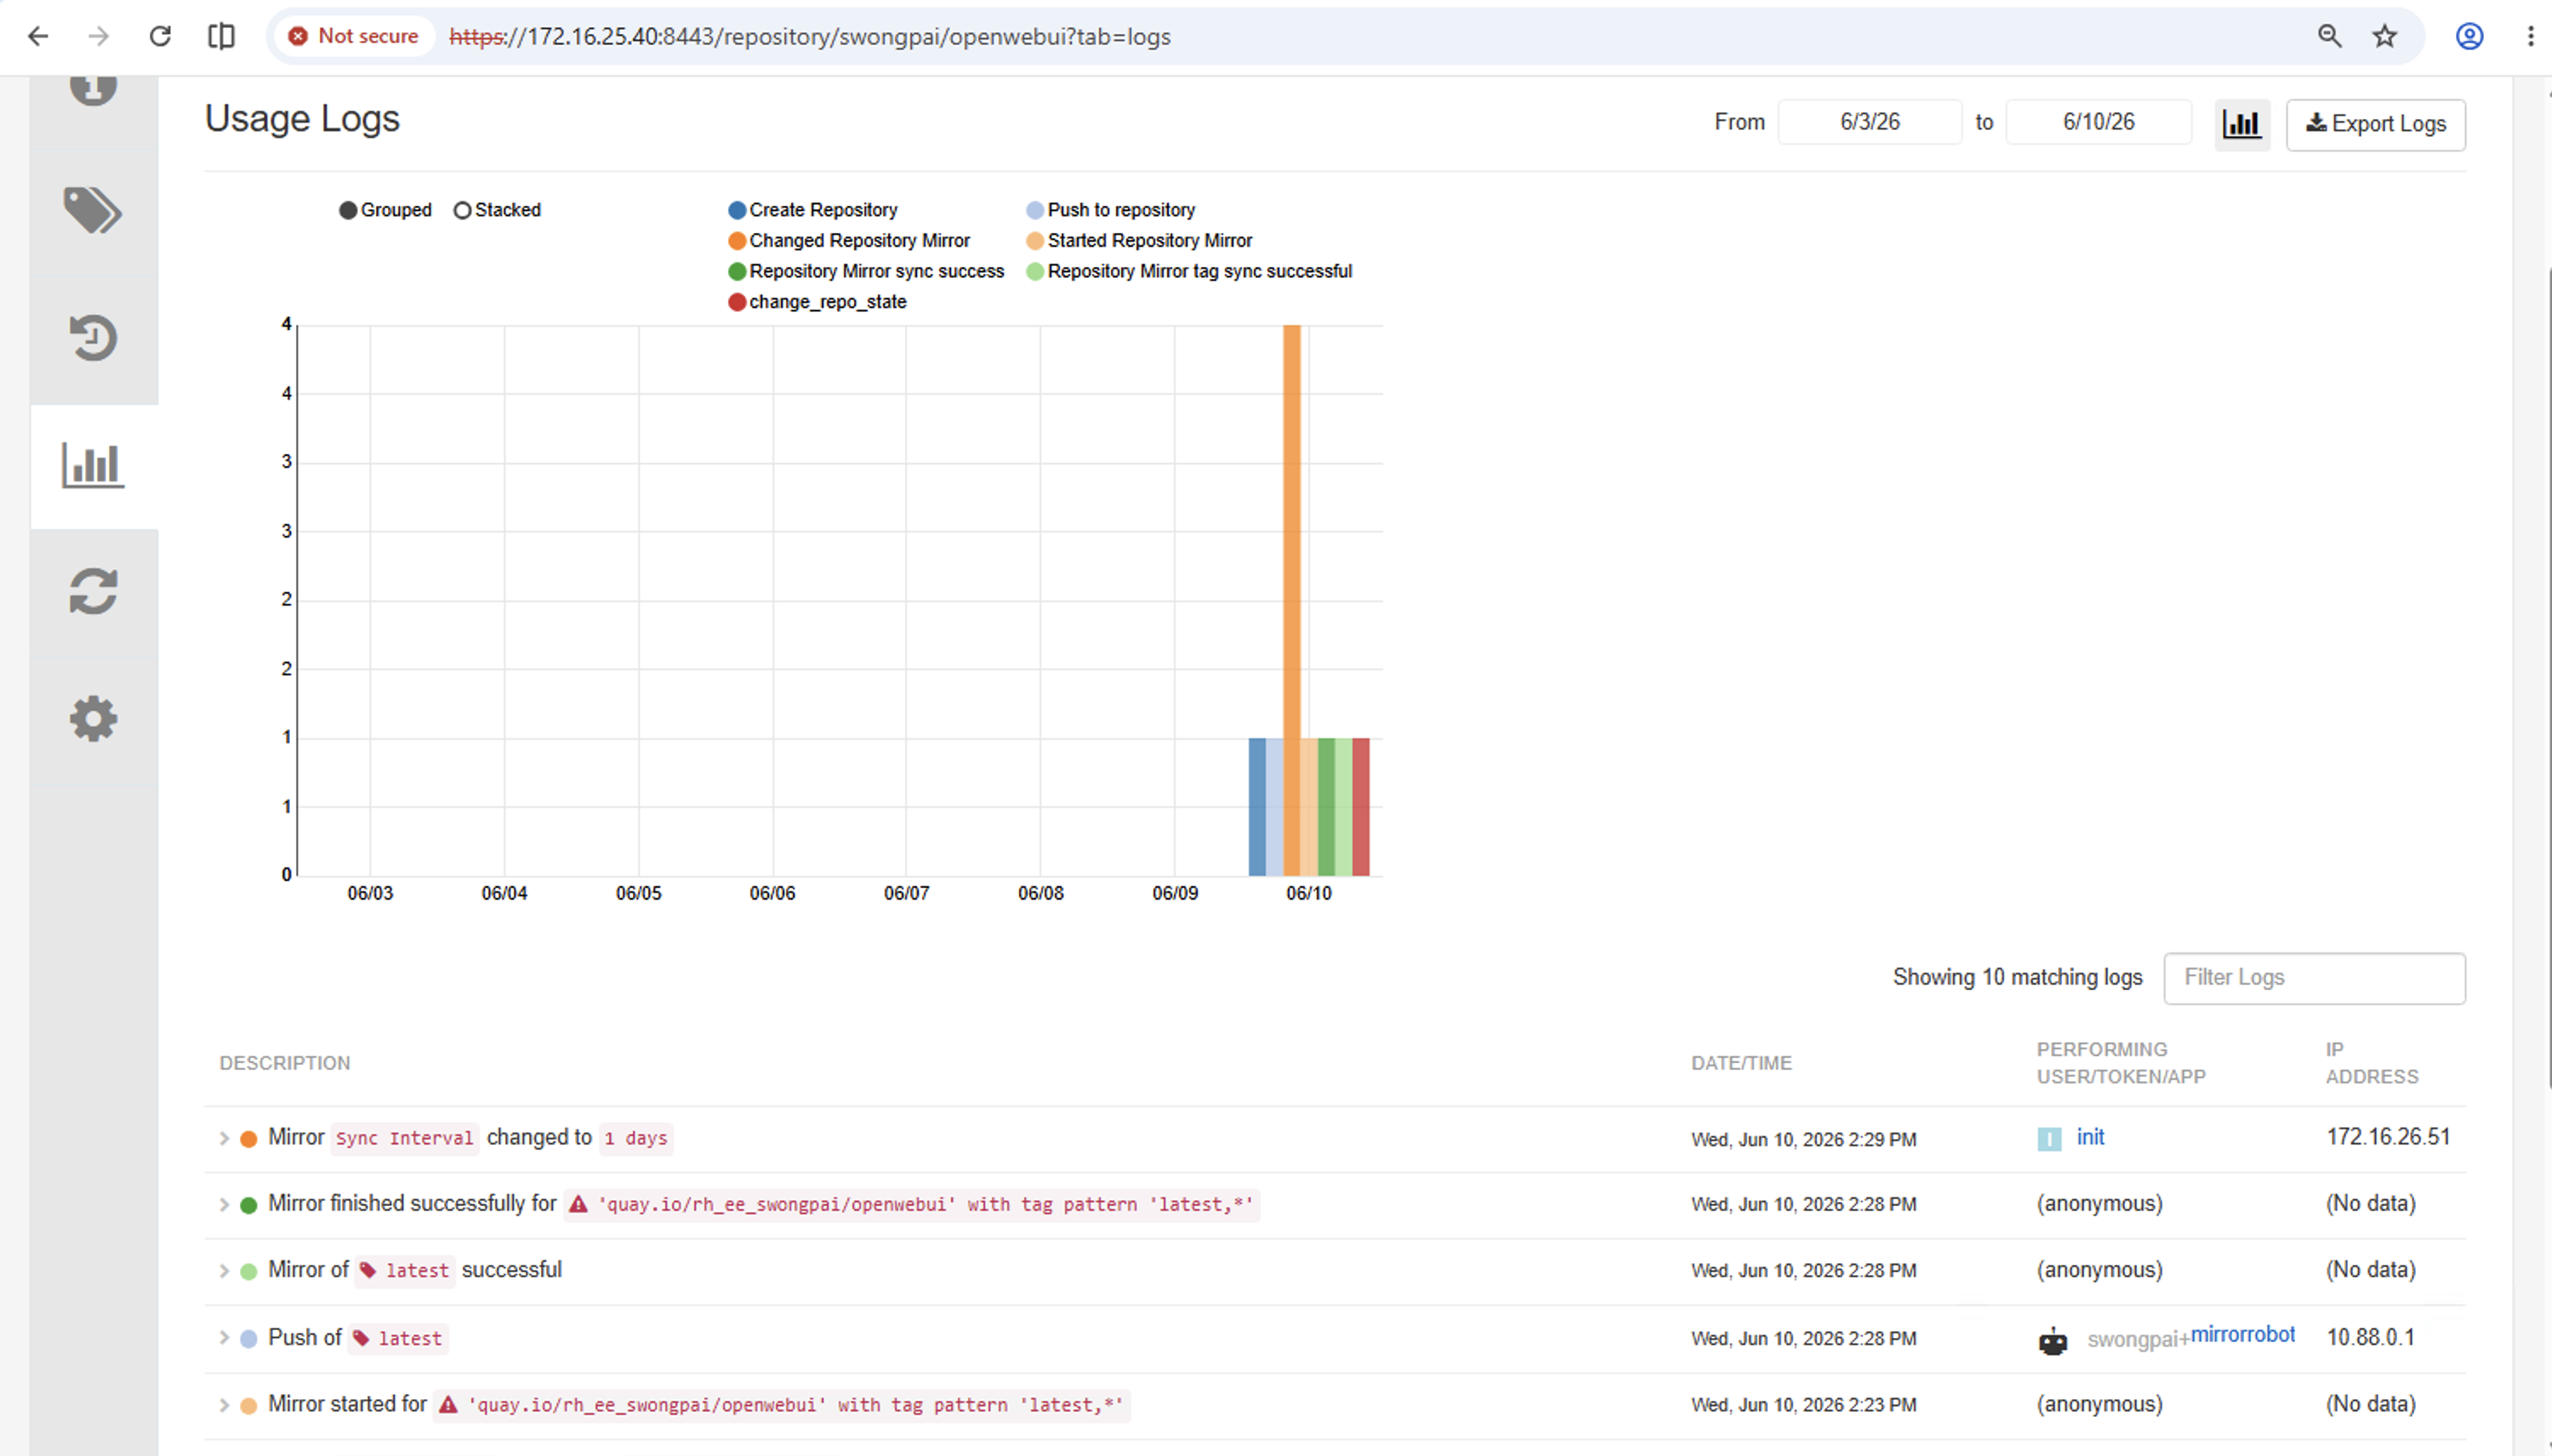
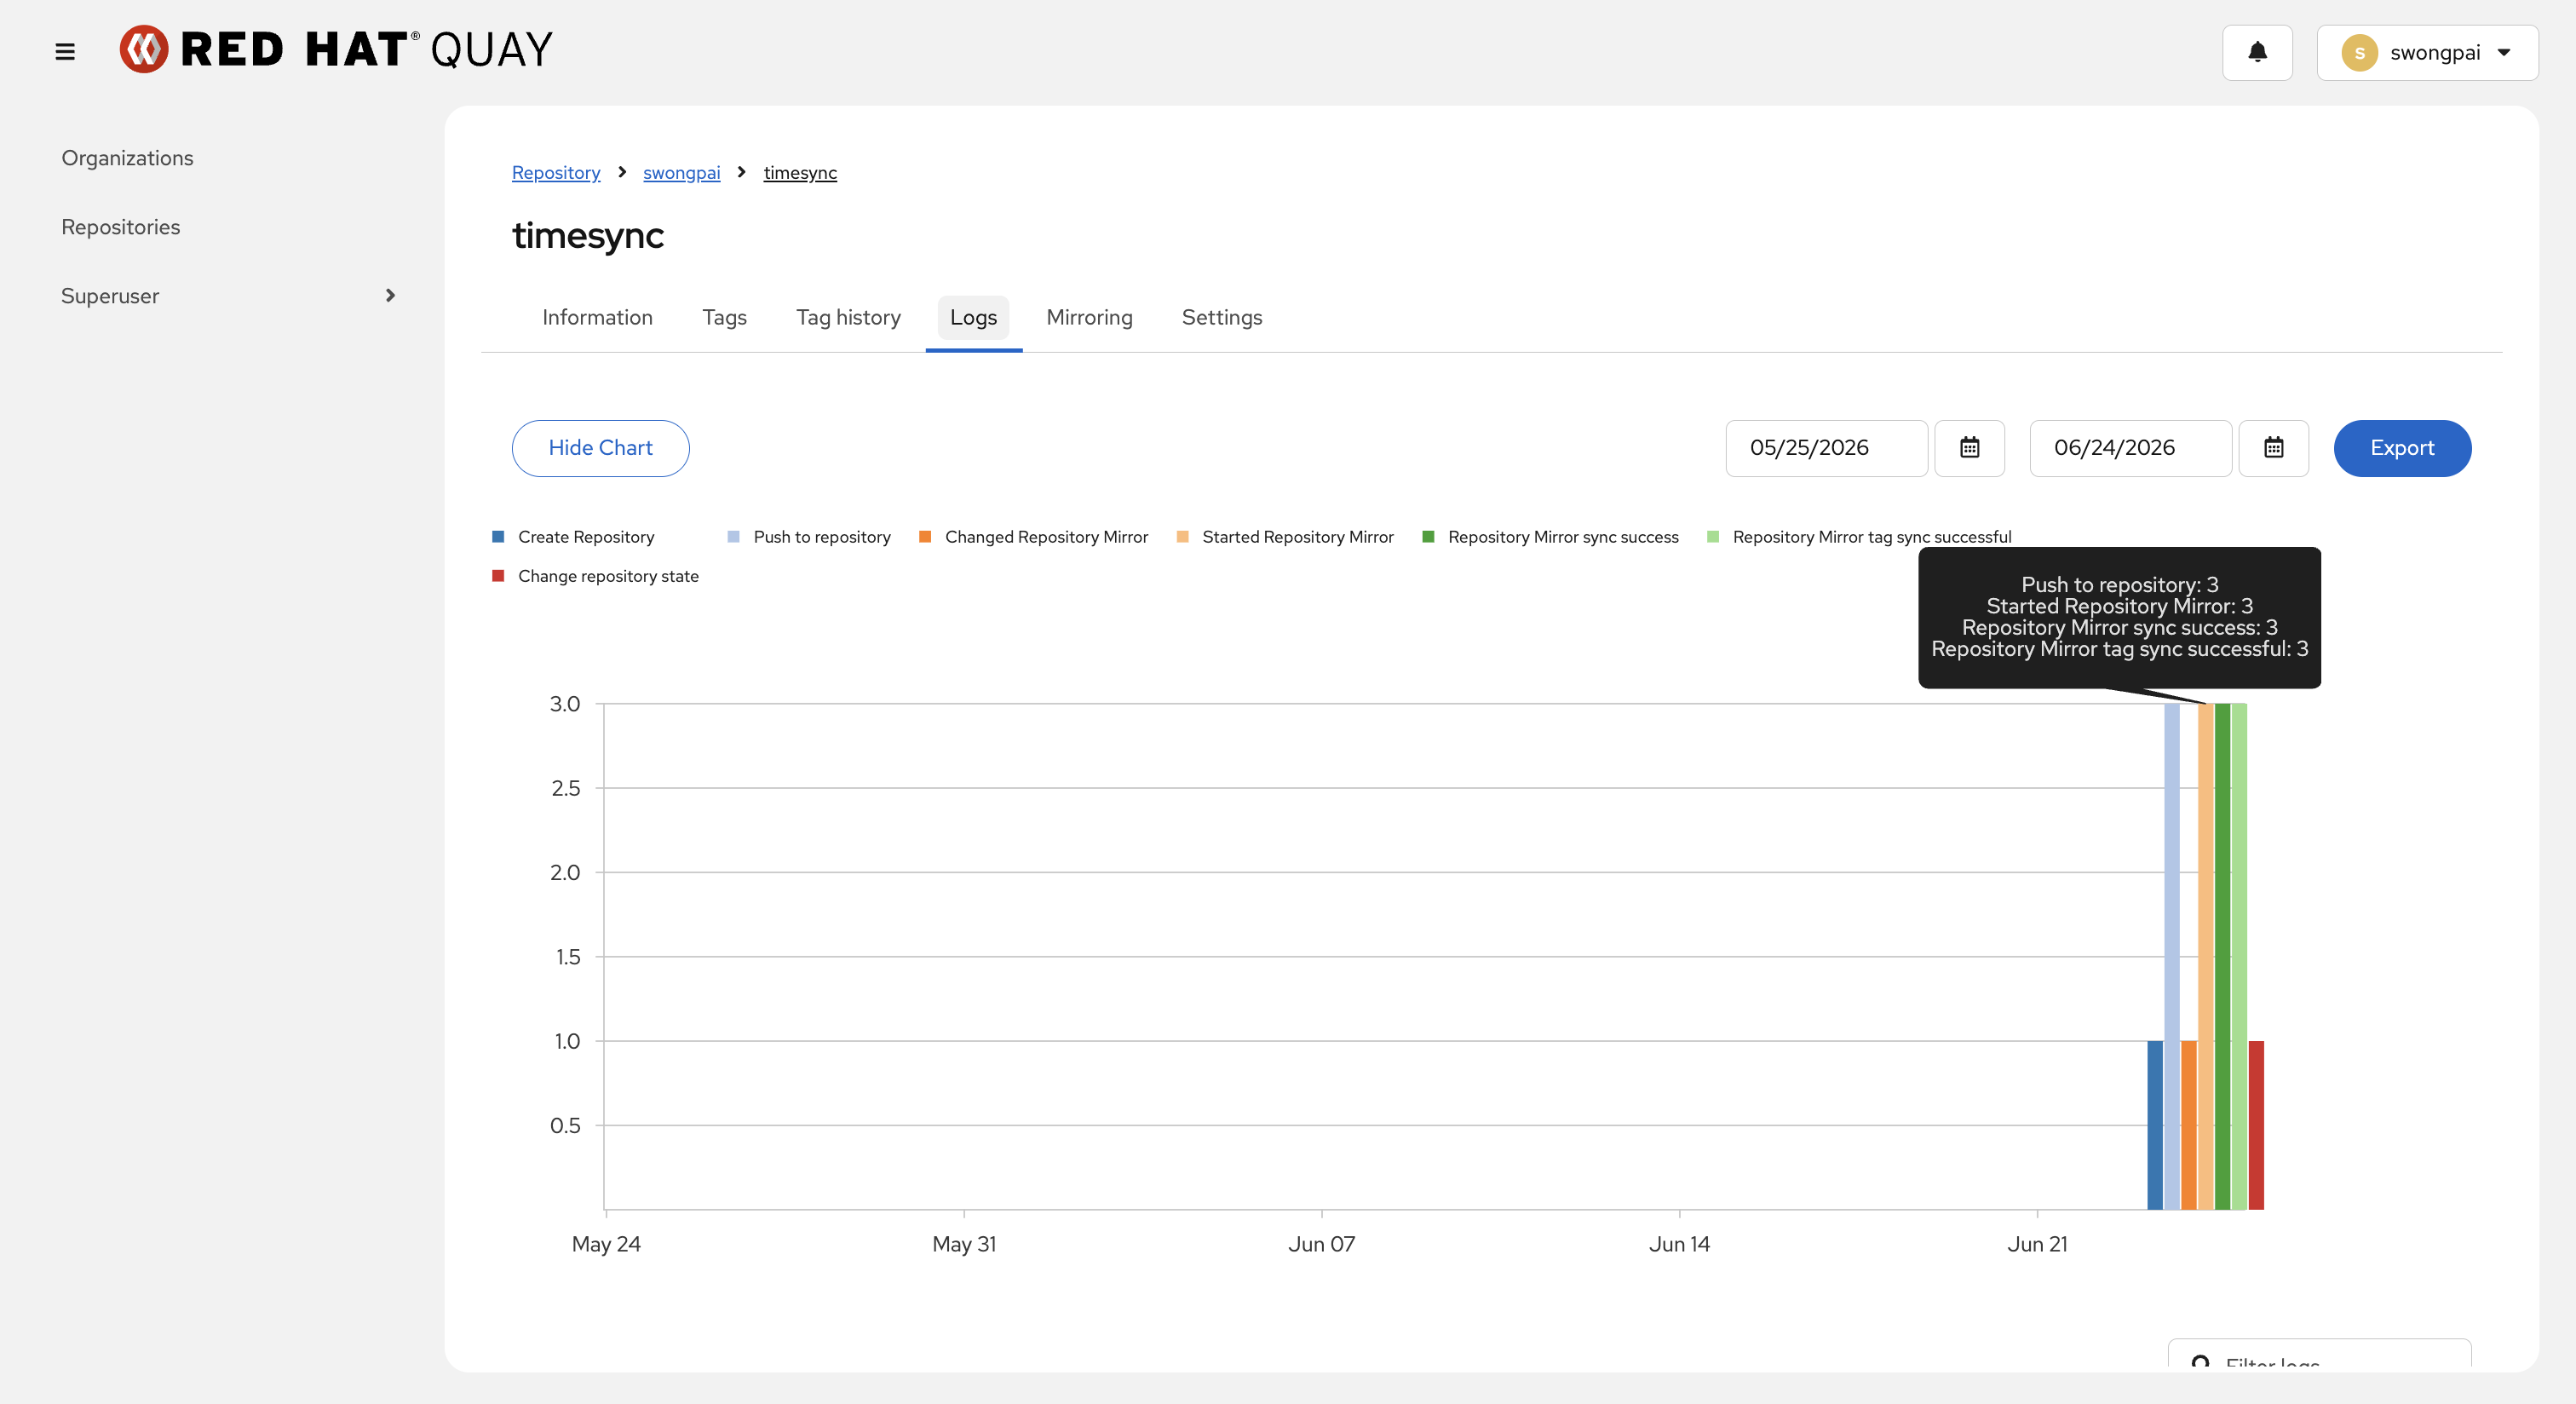
feat: update quay images

diff --git a/openshift-101.html b/openshift-101.html
@@ -7503,26 +7503,26 @@ EOF
 </div>
 
 <h4>Live Example &mdash; Mirroring from quay.io to Internal Quay</h4>
-<p>Mirror an upstream image (<code>quay.io/rh_ee_swongpai/openwebui</code>) into an internal Quay instance. Configure the mirror with a Robot Account for pull credentials, tag filters, and a sync schedule &mdash; then watch the image appear with Clair scan results.</p>
+<p>Mirror an upstream image (<code>quay.io/rh_ee_swongpai/fast-localtime-check</code>) into an internal Quay instance as repository <code>swongpai/timesync</code>. Set up a Robot Account for pull credentials, configure the mirror with a tag filter and sync schedule, trigger a sync, then watch the mirrored tag appear with a Clair scan.</p>
 
 <div class="diagram-box">
-  <div class="diagram-title">Step 1 &mdash; Source Image on quay.io (upstream)</div>
-  <img loading="lazy" src="images/quay-public-repo.png" alt="Quay.io public repository rh_ee_swongpai/openwebui — latest tag, 1.7 GiB, Clair scan showing 2 Critical and 104 fixable CVEs" style="width:100%;border-radius:8px"/>
+  <div class="diagram-title">Step 1 &mdash; Robot Account for Mirror Pull Credentials</div>
+  <img loading="lazy" src="images/quay-mirror-robot-account.png" alt="Red Hat Quay swongpai organization Robot accounts tab — robot account swongpai+robot, no teams, 1 repository, created Jun 23 2026, used as mirror pull credentials" style="width:100%;border-radius:8px"/>
 </div>
 
 <div class="diagram-box">
   <div class="diagram-title">Step 2 &mdash; Mirror Configuration on Internal Quay</div>
-  <img loading="lazy" src="images/quay-internal-mirroring-setup.png" alt="Internal Quay mirror config — external repository quay.io/rh_ee_swongpai/openwebui, tag filter latest/*, sync interval, Robot User swongpai+mirrorrobot, Sync Now button" style="width:100%;border-radius:8px"/>
+  <img loading="lazy" src="images/quay-internal-mirroring-setup.png" alt="Red Hat Quay Repository Mirroring config for swongpai/timesync — Enabled, Registry Location quay.io/rh_ee_swongpai/fast-localtime-check, Tags rhhi-latest, All architectures, next sync date, Sync Now button" style="width:100%;border-radius:8px"/>
 </div>
 
 <div class="diagram-box">
   <div class="diagram-title">Step 3 &mdash; Sync Logs Show Successful Mirror</div>
-  <img loading="lazy" src="images/quay-internal-mirroring-status.png" alt="Internal Quay usage logs — mirror started, push of latest tag by mirrorrobot, mirror finished successfully with timestamp and IP" style="width:100%;border-radius:8px"/>
+  <img loading="lazy" src="images/quay-internal-mirroring-status.png" alt="Red Hat Quay usage logs chart for swongpai/timesync — Push to repository, Started Repository Mirror, Repository Mirror sync success, and Repository Mirror tag sync successful each show count 3" style="width:100%;border-radius:8px"/>
 </div>
 
 <div class="diagram-box">
   <div class="diagram-title">Step 4 &mdash; Mirrored Tag Appears in Internal Quay</div>
-  <img loading="lazy" src="images/quay-internal-tag-appear.png" alt="Internal Quay repository tags — latest tag mirrored, 1.7 GiB, SHA256 digest, OCI labels showing image source and description" style="width:100%;border-radius:8px"/>
+  <img loading="lazy" src="images/quay-internal-tag-appear.png" alt="Red Hat Quay Tags tab for swongpai/timesync — rhhi-latest tag mirrored, 24.9 kB to 59.5 MB, linux/amd64 child manifest, security None Detected, SHA256 manifest digest" style="width:100%;border-radius:8px"/>
 </div>
 
 <h3>Geo-Replication</h3>